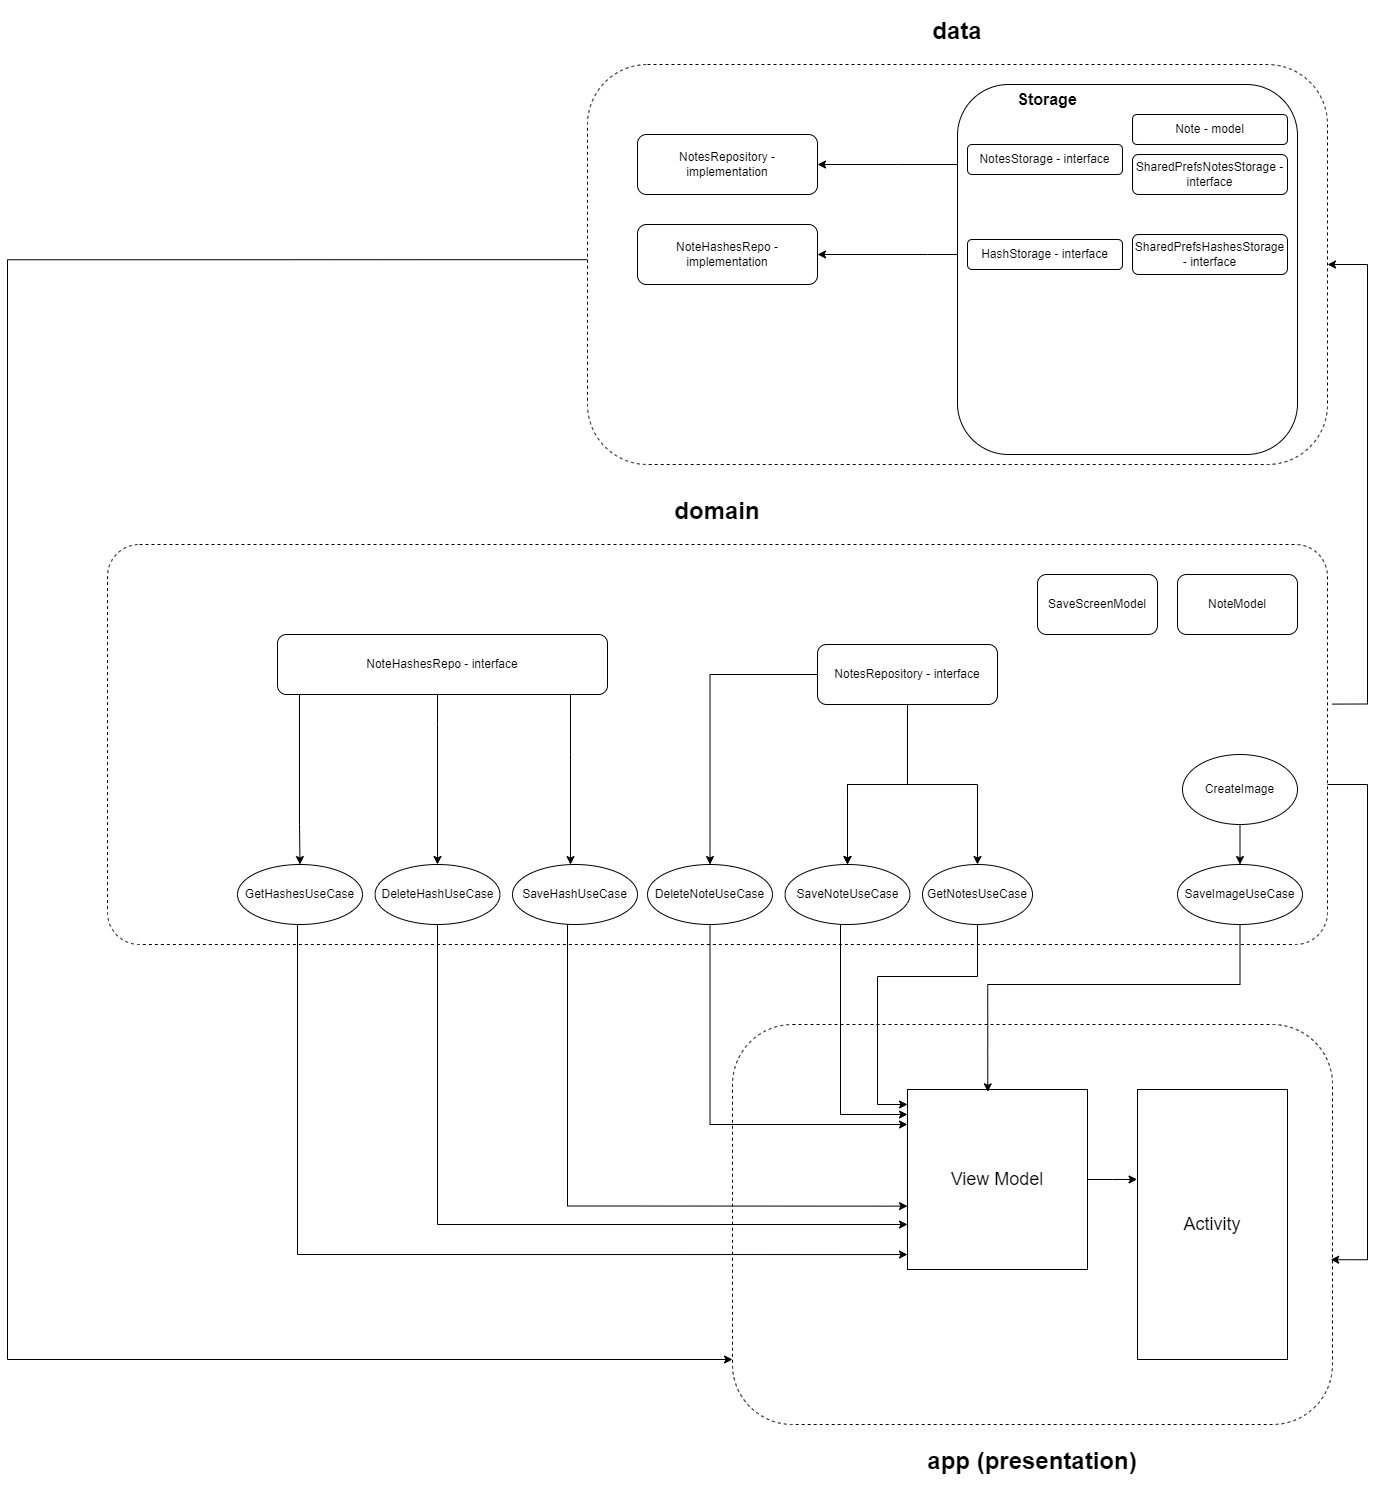
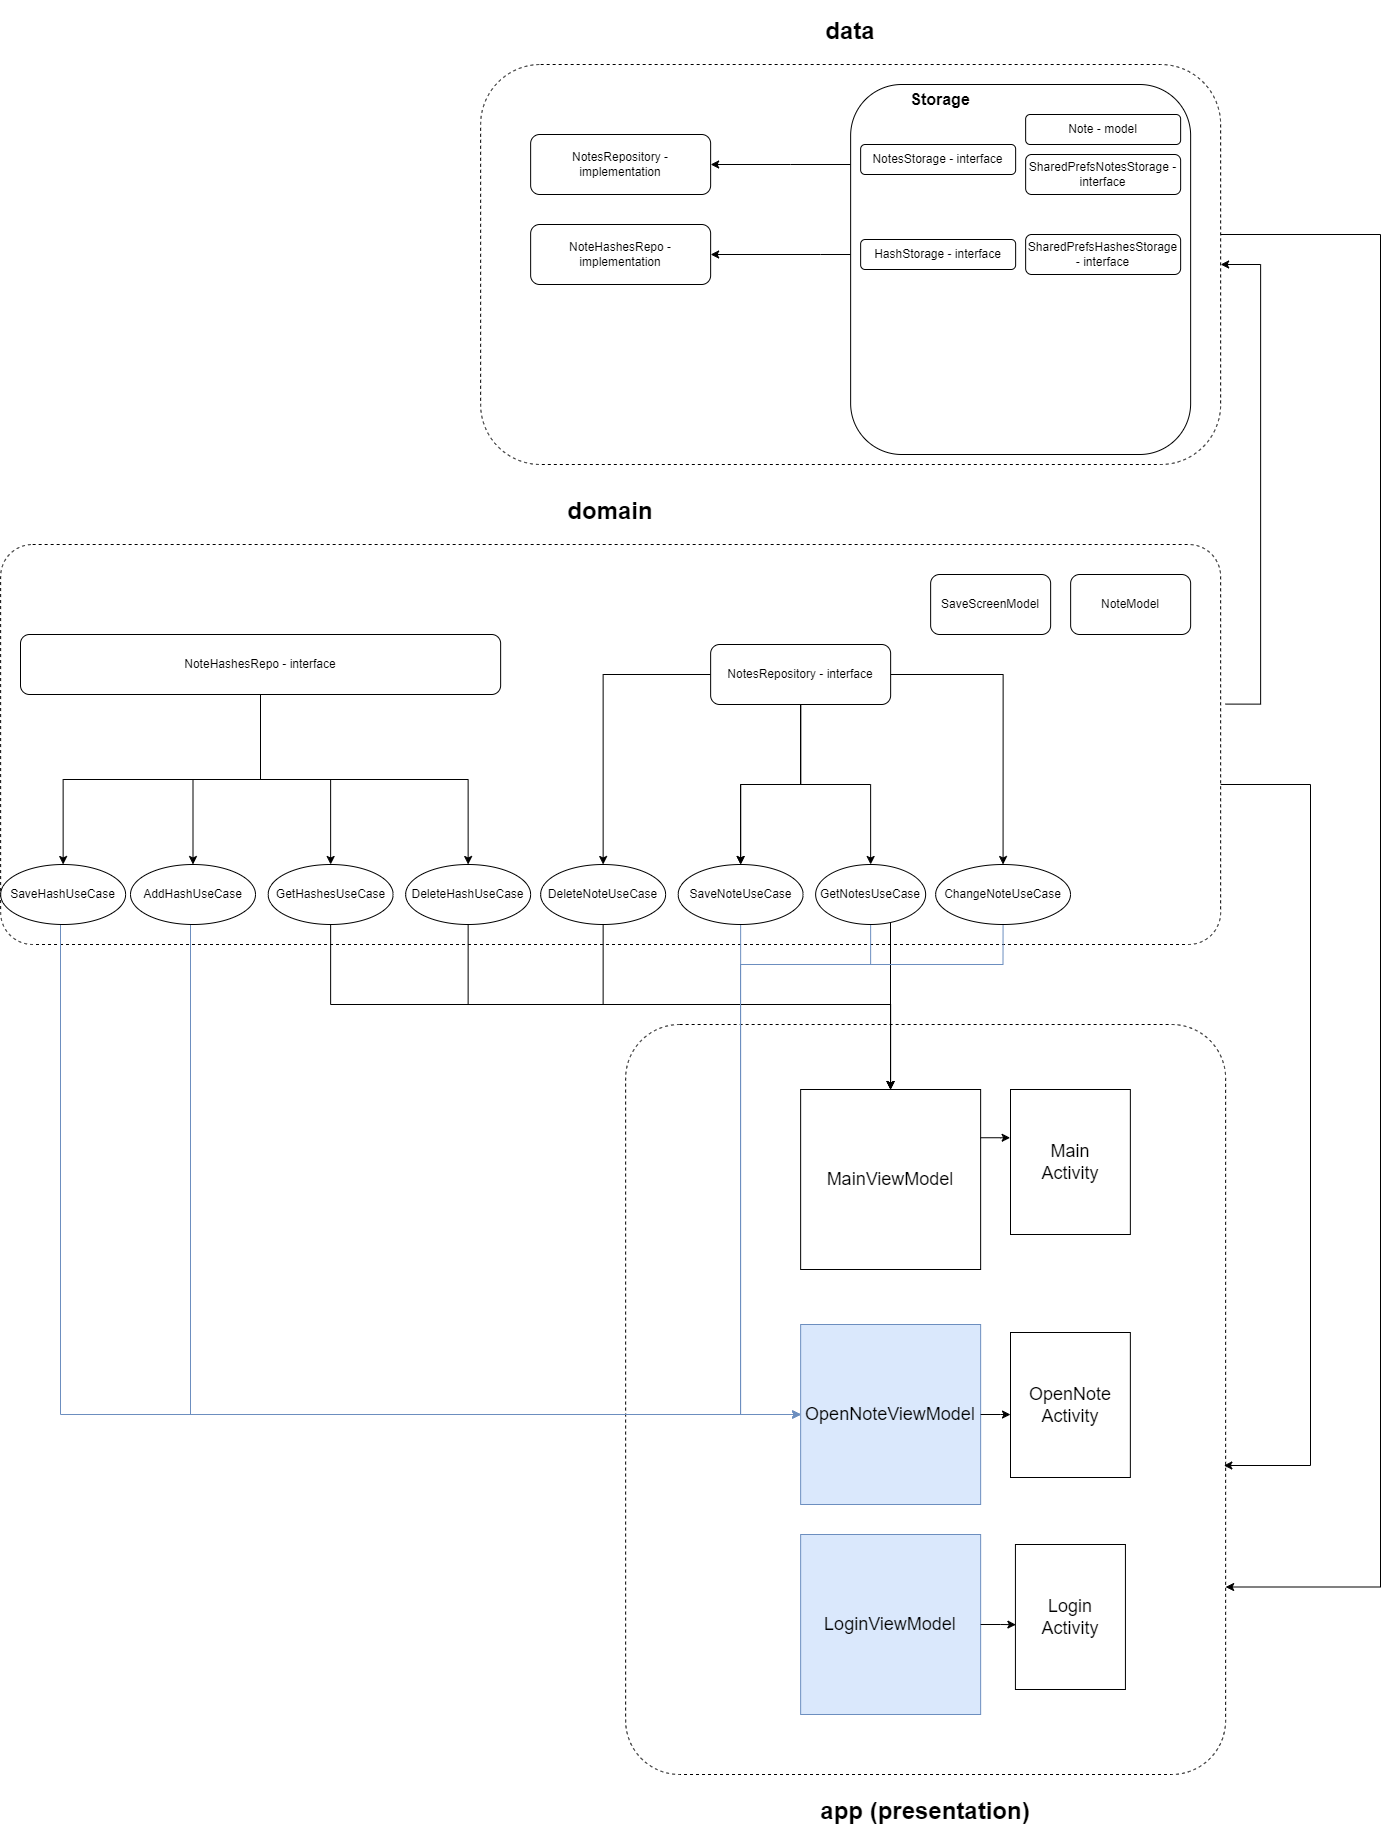
diagram changed. note save method changed, it is now executed in OpenNoteActivity

diff --git a/app/src/main/java/com/luckhost/lockscreen_notes/presentation/main/MainActivity.kt b/app/src/main/java/com/luckhost/lockscreen_notes/presentation/main/MainActivity.kt
@@ -1,5 +1,6 @@
 package com.luckhost.lockscreen_notes.presentation.main
 
+import android.content.Context
 import android.content.Intent
 import android.os.Bundle
 import androidx.activity.ComponentActivity
@@ -97,13 +98,7 @@ class MainActivity : ComponentActivity() {
             containerColor = colorResource(id = R.color.main_bg),
             floatingActionButton = {
                 FloatingActionButton(onClick = {
-                    notesListState.add(vm.createNote(
-                        header = "Empty note",
-                        content = "tap to edit",
-                        coordinateX = 0,
-                        coordinateY = 0,
-                        deadLine = Date()
-                    ))
+                    startOpenNoteActivity(context)
                 }) {
                     Icon(Icons.Default.Add, contentDescription = "Add")
                 }
@@ -114,7 +109,6 @@ class MainActivity : ComponentActivity() {
                 .fillMaxSize()
                 .padding(innerPadding)) {
                 Column(modifier = Modifier.padding(top = 15.dp)) {
-
                     HorizontalDivider()
                     NotesList(
                         notes = notesListState,
@@ -143,14 +137,23 @@ class MainActivity : ComponentActivity() {
                     content = item.content,
                     bitmap = null,
                     onItemClick = {
-                        val intent = Intent(context, OpenNoteActivity::class.java)
-                        intent.putExtra("noteHash", item.hashCode)
-                        context.startActivity(intent)
+                        startOpenNoteActivity(context = context, item)
                     },
                     onDeleteIconClick = { onDeleteButClick(item) }
                 )
             }
         }
+    }
+
+    private fun startOpenNoteActivity(context: Context, note: NoteModel) {
+        val intent = Intent(context, OpenNoteActivity::class.java)
+        intent.putExtra("noteHash", note.hashCode)
+        context.startActivity(intent)
+    }
+
+    private fun startOpenNoteActivity(context: Context) {
+        val intent = Intent(context, OpenNoteActivity::class.java)
+        context.startActivity(intent)
     }
 
     override fun onResume() {

diff --git a/app/src/main/java/com/luckhost/lockscreen_notes/presentation/main/MainViewModel.kt b/app/src/main/java/com/luckhost/lockscreen_notes/presentation/main/MainViewModel.kt
@@ -13,50 +13,11 @@ import java.util.Date
 
 class MainViewModel(
     private val getNotesUseCase: GetNotesUseCase,
-    private val saveNoteUseCase: SaveNoteUseCase,
     private val deleteNoteUseCase: DeleteNoteUseCase,
     private val getHashesUseCase: GetHashesUseCase,
-    private val saveHashesUseCase: SaveHashesUseCase,
     private val deleteHashUseCase: DeleteHashUseCase,
 ): ViewModel() {
-    private var hashesList: MutableList<Int> = mutableListOf()
     private var notesList: MutableList<NoteModel> = mutableListOf()
-
-    init {
-        Log.d("MainActivityVM", "init")
-        hashesList = getHashesUseCase.execute().toMutableList()
-        notesList = getNotesUseCase.execute(hashesList).toMutableList()
-    }
-
-    fun createNote(
-        header: String,
-        content: String,
-        deadLine: Date,
-        coordinateX: Int,
-        coordinateY: Int,
-    ): NoteModel {
-        val modelToSave = NoteModel(
-            header = header,
-            content = content,
-            deadLine = deadLine,
-            coordinateX = coordinateX,
-            coordinateY = coordinateY,
-            hashCode = null
-        )
-        saveNoteUseCase.execute(modelToSave)
-
-        hashesList.add(modelToSave.hashCode())
-        saveHashesUseCase.execute(hashesList.toList())
-
-        return NoteModel(
-            header = header,
-            content = content,
-            deadLine = deadLine,
-            coordinateX = coordinateX,
-            coordinateY = coordinateY,
-            hashCode = modelToSave.hashCode()
-        )
-    }
 
     fun deleteNote(
         hashCode: Int
@@ -66,7 +27,9 @@ class MainViewModel(
     }
 
     fun getNotes(): List<NoteModel> {
-        notesList = getNotesUseCase.execute(noteHashes = hashesList).toMutableList()
+        notesList = getNotesUseCase.execute(
+            getHashesUseCase.execute().toMutableList()
+        ).toMutableList()
         return notesList
     }
 }

diff --git a/app/src/main/java/com/luckhost/lockscreen_notes/presentation/createNote/OpenNoteViewModel.kt b/app/src/main/java/com/luckhost/lockscreen_notes/presentation/createNote/OpenNoteViewModel.kt
@@ -3,19 +3,49 @@ package com.luckhost.lockscreen_notes.presentation.createNote
 import android.util.Log
 import androidx.lifecycle.ViewModel
 import com.luckhost.domain.models.NoteModel
+import com.luckhost.domain.useCases.keys.AddHashUseCase
 import com.luckhost.domain.useCases.keys.SaveHashesUseCase
 import com.luckhost.domain.useCases.objects.ChangeNoteUseCase
 import com.luckhost.domain.useCases.objects.GetNotesUseCase
 import com.luckhost.domain.useCases.objects.SaveNoteUseCase
+import java.util.Date
 
 class OpenNoteViewModel(
     private val saveNoteUseCase: SaveNoteUseCase,
-    private val saveHashesUseCase: SaveHashesUseCase,
     private val getNotesUseCase: GetNotesUseCase,
     private val changeNoteUseCase: ChangeNoteUseCase,
+    private val addHashUseCase: AddHashUseCase,
 ) : ViewModel() {
     init {
         Log.d("CreateNoteVM", "init")
+    }
+
+    fun createNote(
+        header: String,
+        content: String,
+        deadLine: Date,
+        coordinateX: Int,
+        coordinateY: Int,
+    ): NoteModel {
+        val modelToSave = NoteModel(
+            header = header,
+            content = content,
+            deadLine = deadLine,
+            coordinateX = coordinateX,
+            coordinateY = coordinateY,
+            hashCode = null
+        )
+        saveNoteUseCase.execute(modelToSave)
+        addHashUseCase.execute(modelToSave.hashCode())
+
+        return NoteModel(
+            header = header,
+            content = content,
+            deadLine = deadLine,
+            coordinateX = coordinateX,
+            coordinateY = coordinateY,
+            hashCode = modelToSave.hashCode()
+        )
     }
 
     fun getNote(hashCode: Int): NoteModel {

diff --git a/app/src/main/java/com/luckhost/lockscreen_notes/presentation/createNote/OpenNoteActivity.kt b/app/src/main/java/com/luckhost/lockscreen_notes/presentation/createNote/OpenNoteActivity.kt
@@ -2,6 +2,7 @@ package com.luckhost.lockscreen_notes.presentation.createNote
 
 import android.os.Build
 import android.os.Bundle
+import android.util.Log
 import androidx.activity.ComponentActivity
 import androidx.activity.compose.setContent
 import androidx.annotation.RequiresApi
@@ -21,6 +22,7 @@ import com.luckhost.lockscreen_notes.presentation.createNote.additional.function
 import com.luckhost.lockscreen_notes.presentation.createNote.additional.functions.NoteViewFragment
 import com.luckhost.lockscreen_notes.ui.theme.Lockscreen_notesTheme
 import org.koin.androidx.viewmodel.ext.android.viewModel
+import java.util.Date
 
 class OpenNoteActivity : ComponentActivity() {
     private val vm by viewModel<OpenNoteViewModel>()
@@ -29,7 +31,22 @@ class OpenNoteActivity : ComponentActivity() {
     override fun onCreate(savedInstanceState: Bundle?) {
         super.onCreate(savedInstanceState)
 
-        note = vm.getNote(intent.getIntExtra("noteHash", 0))
+        val extras = intent.extras
+
+
+        extras?.let {
+            val noteHash = intent.getIntExtra("noteHash", 0)
+            note = vm.getNote(noteHash)
+        }?: run {
+            note = vm.createNote(
+                header = "Empty note",
+                content = "tap to edit",
+                coordinateX = 0,
+                coordinateY = 0,
+                deadLine = Date()
+            )
+        }
+
 
         setContent {
             Lockscreen_notesTheme {

diff --git a/app/src/main/java/com/luckhost/lockscreen_notes/di/AppModule.kt b/app/src/main/java/com/luckhost/lockscreen_notes/di/AppModule.kt
@@ -10,19 +10,17 @@ val appModule = module {
     viewModel<MainViewModel>{
         MainViewModel(
             getNotesUseCase = get(),
-            saveNoteUseCase = get(),
             deleteNoteUseCase = get(),
             getHashesUseCase = get(),
-            saveHashesUseCase = get(),
             deleteHashUseCase = get(),
         )
     }
     viewModel<OpenNoteViewModel>{
         OpenNoteViewModel(
             saveNoteUseCase = get(),
-            saveHashesUseCase = get(),
             getNotesUseCase = get(),
             changeNoteUseCase = get(),
+            addHashUseCase = get()
         )
     }
     viewModel<LoginViewModel>{

diff --git a/app/src/main/java/com/luckhost/lockscreen_notes/di/DomainModule.kt b/app/src/main/java/com/luckhost/lockscreen_notes/di/DomainModule.kt
@@ -1,5 +1,6 @@
 package com.luckhost.lockscreen_notes.di
 
+import com.luckhost.domain.useCases.keys.AddHashUseCase
 import com.luckhost.domain.useCases.keys.DeleteHashUseCase
 import com.luckhost.domain.useCases.keys.GetHashesUseCase
 import com.luckhost.domain.useCases.keys.SaveHashesUseCase
@@ -43,6 +44,11 @@ val domainModule = module {
     }
     factory<DeleteHashUseCase> {
         DeleteHashUseCase(
+            hashesRepository = get(),
+        )
+    }
+    factory<AddHashUseCase> {
+        AddHashUseCase(
             hashesRepository = get(),
         )
     }

diff --git a/domain/src/main/java/com/luckhost/domain/useCases/keys/AddHashUseCase.kt b/domain/src/main/java/com/luckhost/domain/useCases/keys/AddHashUseCase.kt
@@ -1,0 +1,11 @@
+package com.luckhost.domain.useCases.keys
+
+import com.luckhost.domain.repository.NoteHashesRepoInterface
+
+class AddHashUseCase(
+    private val hashesRepository: NoteHashesRepoInterface,
+) {
+    fun execute(hash: Int) {
+        hashesRepository.addHash(hash)
+    }
+}

diff --git a/data/src/main/java/com/luckhost/data/storage/keys/SharedPrefHashesStorage.kt b/data/src/main/java/com/luckhost/data/storage/keys/SharedPrefHashesStorage.kt
@@ -32,4 +32,8 @@ class SharedPrefHashesStorage(context: Context): HashStorage {
         val oldList = getHashes()
         saveHashes(oldList.minus(hashToDelete))
     }
+
+    override fun addHash(hash: Int) {
+        saveHashes(getHashes().plus(hash))
+    }
 }

diff --git a/data/src/main/java/com/luckhost/data/repository/NoteHashesRepoImpl.kt b/data/src/main/java/com/luckhost/data/repository/NoteHashesRepoImpl.kt
@@ -17,4 +17,8 @@ class NoteHashesRepoImpl(
     override fun deleteHash(hashToDelete: Int) {
         hashStorage.deleteHash(hashToDelete)
     }
+
+    override fun addHash(hash: Int) {
+        hashStorage.addHash(hash)
+    }
 }

diff --git a/domain/src/main/java/com/luckhost/domain/repository/NoteHashesRepoInterface.kt b/domain/src/main/java/com/luckhost/domain/repository/NoteHashesRepoInterface.kt
@@ -4,4 +4,5 @@ interface NoteHashesRepoInterface {
     fun saveHashes(noteHashes: List<Int>)
     fun getHashes(): List<Int>
     fun deleteHash(hashToDelete: Int)
+    fun addHash(hash: Int)
 }

diff --git a/data/src/main/java/com/luckhost/data/storage/keys/HashStorage.kt b/data/src/main/java/com/luckhost/data/storage/keys/HashStorage.kt
@@ -4,4 +4,5 @@ interface HashStorage {
     fun getHashes(): List<Int>
     fun saveHashes(noteHashes: List<Int>)
     fun deleteHash(hashToDelete: Int)
+    fun addHash(hash: Int)
 }
